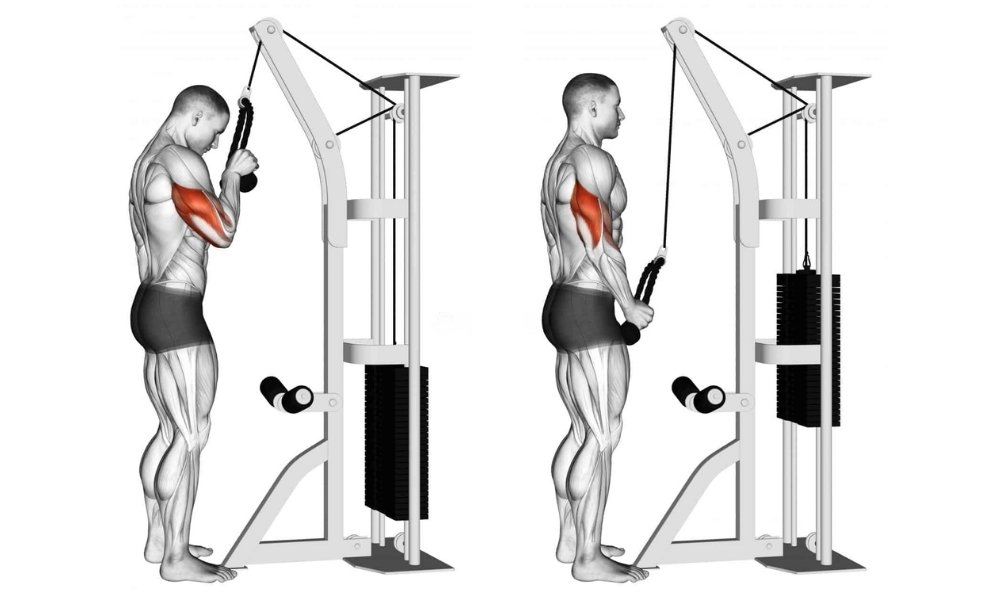
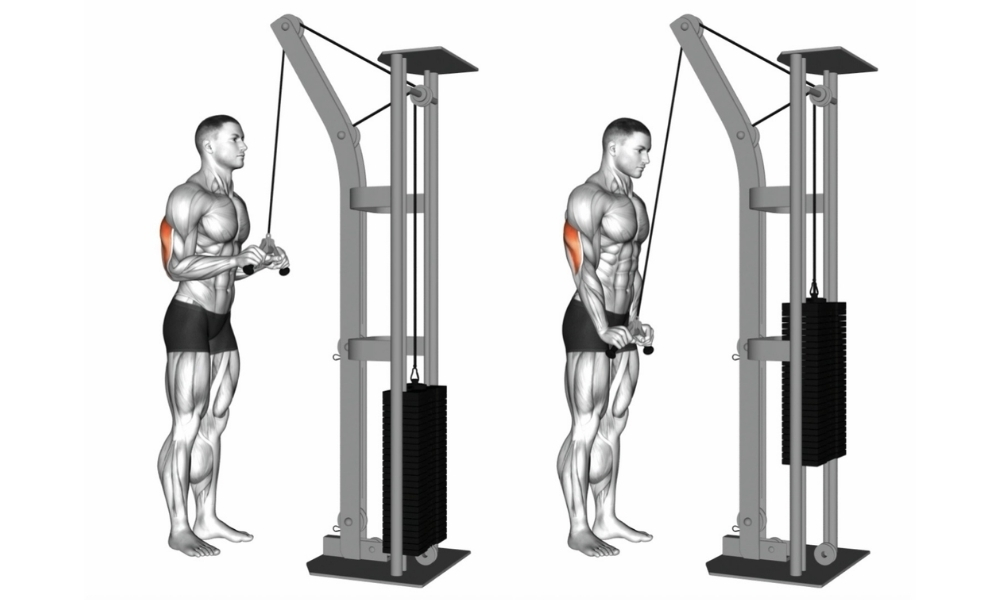
new exercises

diff --git a/src/App.jsx b/src/App.jsx
@@ -48,6 +48,7 @@ const EQ = {
   HIP_ADDUCTION_M:'hip adduction machine', ASSISTED_PULLUP_M:'assisted pull-up machine',
   PREACHER_M:'preacher curl machine', PREACHER_BENCH:'preacher bench',
   TRI_PUSHDOWN_M:'triceps pushdown machine',
+  ANKLE_HARNESS:'ankle harness', DIP_STATION:'dip station',
 };
 
 // =====================================================
@@ -88,17 +89,22 @@ const EXERCISES = {
   HIP_ADDUCTION:['Hip Adduction (Machine)',[EQ.HIP_ADDUCTION_M]],
   // LEG_EXT
   LEG_EXT:['Leg Extension',[EQ.LEG_EXT_M]],
+  LEG_EXT_1L:['Single-Leg Leg Extension',[EQ.LEG_EXT_M],{sa:true}],
   REVERSE_NORDIC:['Band-Assisted Reverse Nordic Curl',[EQ.BANDS],{lastResort:true}],
   SISSY_SQUAT:['Sissy Squat',[]],
   // LEG_CURL
   LEG_CURL_SEATED:['Seated Leg Curl',[EQ.LEG_CURL_SEATED_M]],
   LEG_CURL_LYING:['Lying Leg Curl',[EQ.LEG_CURL_LYING_M]],
   LEG_CURL_KNEELING:['Kneeling Leg Curl (Machine)',[EQ.LEG_CURL_KNEELING_M]],
+  LEG_CURL_SEATED_1L:['Single-Leg Seated Leg Curl',[EQ.LEG_CURL_SEATED_M],{sa:true}],
+  LEG_CURL_LYING_1L:['Single-Leg Lying Leg Curl',[EQ.LEG_CURL_LYING_M],{sa:true}],
+  CABLE_LYING_LEG_CURL:['Lying Leg Curl (Cable)',[EQ.CABLE,EQ.ANKLE_HARNESS]],
   NORDIC_BAND:['Band-Assisted Nordic Curl',[EQ.BANDS],{lastResort:true}],
   // CALF
   CALF_STRAIGHT_M:['Seated Straight-Leg Calf Raise (Machine)',[EQ.CALF_SEATED_STRAIGHT_M]],
   CALF_STANDING_MACH:['Standing Calf Raise (Machine)',[EQ.CALF_STANDING_M]],
   CALF_STANDING_CABLE:['Standing Calf Raise (Cable)',[EQ.CABLE,EQ.STEPPER]],
+  CALF_LEG_PRESS:['Calf Raise (Leg Press)',[EQ.LEG_PRESS_M]],
   CALF_STRAIGHT_SM:['Straight Leg Calf Raise (Smith)',[EQ.SMITH,EQ.STEPPER]],
   CALF_STRAIGHT_DB:['Straight Leg Calf Raise (DB)',[EQ.DUMBBELLS,EQ.STEPPER],{db:true}],
   CALF_SEATED:['Seated Calf Raise',[EQ.CALF_SEATED_M]],
@@ -118,6 +124,8 @@ const EXERCISES = {
   CHEST_PRESS_NEUTRAL_MACH:['Chest Press (Machine, Neutral Grip)',[EQ.CHEST_PRESS_M]],
   BENCH_SMITH:['Flat Bench Press (Smith Machine)',[EQ.SMITH,EQ.FLAT_BENCH]],
   BENCH_DB_FLAT:['Flat Dumbbell Bench Press',[EQ.DUMBBELLS,EQ.FLAT_BENCH],{primary:true,db:true}],
+  DIP_WEIGHTED:['Weighted Dip',[EQ.DIP_STATION,EQ.WEIGHT_BELT],{primary:true}],
+  DIP_BW:['Bodyweight Dip',[EQ.DIP_STATION],{amrap:true}],
   // CHEST_ISO
   DB_FLY_PRESS:['DB Fly-Press',[EQ.DUMBBELLS,EQ.FLAT_BENCH],{db:true}],
   DB_FLY_PRESS_INC:['Incline DB Fly-Press',[EQ.DUMBBELLS,EQ.ADJ_BENCH],{db:true}],
@@ -224,11 +232,11 @@ const POOLS = {
   HINGE:['RDL_LEVER','RDL_TRAP','RDL_LANDMINE','RDL_SMITH','RDL_BB','BACK_EXT_WTD','RDL_CABLE','RDL_DB'],
   GLUTE:['HIP_THRUST_BB','HIP_THRUST_MACH','HIP_THRUST_SMITH','HIP_THRUST_BENCH','HIP_THRUST_DB_1L'],
   GLUTE_ISO:['KICKBACK_CABLE','KICKBACK_MED_CABLE','KICKBACK_MACH','HIP_ABDUCTION','HIP_ADDUCTION'],
-  LEG_EXT:['LEG_EXT','SISSY_SQUAT','REVERSE_NORDIC'],
-  LEG_CURL:['LEG_CURL_SEATED','LEG_CURL_LYING','LEG_CURL_KNEELING','NORDIC_BAND'],
-  CALF:['CALF_STRAIGHT_M','CALF_STANDING_MACH','CALF_STRAIGHT_SM','CALF_STANDING_CABLE','CALF_STRAIGHT_DB','CALF_SEATED','CALF_SL_BW'],
+  LEG_EXT:['LEG_EXT','LEG_EXT_1L','SISSY_SQUAT','REVERSE_NORDIC'],
+  LEG_CURL:['LEG_CURL_SEATED','LEG_CURL_LYING','LEG_CURL_KNEELING','LEG_CURL_SEATED_1L','LEG_CURL_LYING_1L','CABLE_LYING_LEG_CURL','NORDIC_BAND'],
+  CALF:['CALF_STRAIGHT_M','CALF_STANDING_MACH','CALF_STRAIGHT_SM','CALF_STANDING_CABLE','CALF_LEG_PRESS','CALF_STRAIGHT_DB','CALF_SEATED','CALF_SL_BW'],
   INCLINE_PRESS:['INC_BB_30','INC_BB_15','INC_DB_30','INC_DB_15','INC_PRESS_MACH','INC_PRESS_MACH_STACK','INC_PRESS_SMITH'],
-  FLAT_PRESS:['BENCH_BB','CHEST_PRESS_MACH','CHEST_PRESS_FLAT_MACH','CHEST_PRESS_NEUTRAL_MACH','BENCH_SMITH','BENCH_DB_FLAT'],
+  FLAT_PRESS:['BENCH_BB','CHEST_PRESS_MACH','CHEST_PRESS_FLAT_MACH','CHEST_PRESS_NEUTRAL_MACH','BENCH_SMITH','BENCH_DB_FLAT','DIP_WEIGHTED','DIP_BW'],
   CHEST_ISO:['DB_FLY_PRESS','DB_FLY_PRESS_INC','PEC_DECK','CHEST_FLY_MACH','CHEST_FLY_MACH_STACK','CHEST_FLY_CABLE','CHEST_FLY_CABLE_STAND'],
   VERT_PUSH:['SHLDR_PRESS_DB','VIKING_PRESS','OHP_BB','SHLDR_PRESS_MACH','SHLDR_PRESS_MACH_STACK','SHLDR_PRESS_SMITH','SHLDR_PRESS_DB_1A','LANDMINE_PRESS_SEATED','LANDMINE_PRESS_STANDING','LANDMINE_PRESS_KNEELING_1A'],
   HORIZ_PULL:['ROW_TBAR_CS','ROW_CS_MACH','ROW_CS_MACH_STACK','ROW_SEAL','ROW_CABLE_SEATED','ROW_CABLE_CS_1A','ROW_CABLE_CS','ROW_PENDLAY','ROW_DB_CS','ROW_DB_1A','ROW_INVERTED'],
@@ -758,10 +766,36 @@ const TOKEN_ORDER = [
   'LEG_CURL_KNEELING','NECK_CURL_INCLINE','NECK_CURL_SEATED_CABLE','NECK_EXT_INCLINE','NECK_EXT_SEATED_CABLE',
   'PULLDOWN_MACH_STACK','ROW_CABLE_CS','ROW_CS_MACH_STACK','ROW_DB_CS','SHLDR_PRESS_MACH_STACK',
   'SHRUG_BB','SHRUG_KELSO','SISSY_SQUAT',
+  // Last session's 9 additions were left auto-appending instead of being frozen
+  // here (the same latent bug, one level down). This file is live, so codes may
+  // already encode them at these positions. Frozen here in their exact live
+  // auto-append order so those codes keep decoding correctly. Never reorder.
+  'CURL_CABLE_STANDING','CURL_CONCENTRATION_DB','CURL_PREACHER_EZ','CURL_PREACHER_MACH','CURL_ZOTTMAN_PREACHER_1A',
+  'LANDMINE_PRESS_KNEELING_1A','LANDMINE_PRESS_SEATED','LANDMINE_PRESS_STANDING','TRI_PUSHDOWN_MACH',
+  // This session's additions. Appended here at the same time they were added to
+  // EXERCISES, per the standing rule: every new exercise is frozen on arrival.
+  'LEG_EXT_1L','LEG_CURL_SEATED_1L','LEG_CURL_LYING_1L','CABLE_LYING_LEG_CURL','CALF_LEG_PRESS',
+  'DIP_WEIGHTED','DIP_BW',
 ];
-// Anything in the library but not yet in TOKEN_ORDER is appended automatically,
-// which keeps existing tokens stable while new exercises still encode.
-const ID_LIST = [...TOKEN_ORDER, ...Object.keys(EXERCISES).filter(id => !TOKEN_ORDER.includes(id)).sort()];
+// TOKEN LIST INTEGRITY — fail loud, never guess.
+// An OP1 code stores each exercise as its INDEX in this list, so the list has to
+// be append-only and hold every exercise exactly once. This used to auto-append
+// anything missing from TOKEN_ORDER in sorted order; adding one new exercise
+// could reshuffle that tail and silently reassign tokens in codes already
+// issued. We no longer paper over it: a missing or duplicated exercise throws
+// the moment the app loads, so it surfaces in testing instead of corrupting
+// live codes. The fix on seeing this error is to append the listed ids to the
+// END of TOKEN_ORDER — never to reorder what is already there.
+const _unfrozen = Object.keys(EXERCISES).filter(id => !TOKEN_ORDER.includes(id));
+const _dupes = [...new Set(TOKEN_ORDER.filter((id, i) => TOKEN_ORDER.indexOf(id) !== i))];
+if (_unfrozen.length || _dupes.length) {
+  const parts = [];
+  if (_unfrozen.length) parts.push(`${_unfrozen.length} exercise(s) missing from TOKEN_ORDER: ${_unfrozen.join(', ')} — append to the END, never reorder.`);
+  if (_dupes.length) parts.push(`duplicate TOKEN_ORDER entries: ${_dupes.join(', ')}.`);
+  throw new Error('OP1 token list is invalid. ' + parts.join(' '));
+}
+// Every exercise is frozen, so the token order IS the list — no fallback.
+const ID_LIST = [...TOKEN_ORDER];
 const ID_TO_TOKEN = {}; const TOKEN_TO_ID = {};
 ID_LIST.forEach((id,i)=>{ ID_TO_TOKEN[id]=i.toString(36); TOKEN_TO_ID[i.toString(36)]=id; });
 
@@ -1015,7 +1049,7 @@ const fmtH = (cm, units) => {
 const EQUIPMENT_GROUPS = [
   { label:'Free weights', items:[EQ.BARBELL,EQ.DUMBBELLS,EQ.EZ_BAR,EQ.TRAP_BAR,EQ.PLATE] },
   { label:'Racks & benches', items:[EQ.RACK,EQ.FLAT_BENCH,EQ.ADJ_BENCH,EQ.INCLINE_STATION,EQ.SMITH,EQ.LANDMINE,EQ.LEVER_ARMS,EQ.PREACHER_BENCH] },
-  { label:'Cables & bars', items:[EQ.CABLE,EQ.LAT_PULLDOWN,EQ.PULLUP_BAR,EQ.NEUTRAL_BARS,EQ.WEIGHT_BELT,EQ.BANDS] },
+  { label:'Cables & bars', items:[EQ.CABLE,EQ.LAT_PULLDOWN,EQ.PULLUP_BAR,EQ.NEUTRAL_BARS,EQ.DIP_STATION,EQ.WEIGHT_BELT,EQ.ANKLE_HARNESS,EQ.BANDS] },
   { label:'Leg machines', items:[EQ.HACK,EQ.PENDULUM,EQ.LEG_PRESS_M,EQ.LEG_EXT_M,EQ.LEG_CURL_SEATED_M,EQ.LEG_CURL_LYING_M,EQ.LEG_CURL_KNEELING_M,EQ.CALF_STANDING_M,EQ.CALF_SEATED_M,EQ.CALF_SEATED_STRAIGHT_M,EQ.HIP_THRUST_M,EQ.HIP_THRUST_STATION,EQ.KICKBACK_M,EQ.HIP_ABDUCTION_M,EQ.HIP_ADDUCTION_M] },
   { label:'Upper body machines', items:[EQ.CHEST_PRESS_M,EQ.INCLINE_PRESS_M,EQ.PEC_DECK,EQ.CHEST_FLY_M,EQ.SHOULDER_PRESS_M,EQ.LAT_RAISE_M,EQ.REAR_DELT_M,EQ.ROW_CS_M,EQ.TBAR_M,EQ.PULLDOWN_M,EQ.SHRUG_M,EQ.VIKING,EQ.SEAL_BENCH,EQ.PREACHER_M,EQ.TRI_PUSHDOWN_M] },
   { label:'Other', items:[EQ.STEPPER,EQ.ROMAN_CHAIR,EQ.CRUNCH_M,EQ.CAPTAINS_CHAIR,EQ.HEAD_HARNESS] },
@@ -1038,6 +1072,7 @@ const PRESET_MID = new Set([
   EQ.LEG_CURL_SEATED_M,EQ.CALF_STANDING_M,EQ.CALF_SEATED_M,
   EQ.CHEST_PRESS_M,EQ.PEC_DECK,EQ.SHOULDER_PRESS_M,EQ.LAT_RAISE_M,EQ.REAR_DELT_M,
   EQ.ROW_CS_M,EQ.CRUNCH_M,EQ.ROMAN_CHAIR,EQ.CAPTAINS_CHAIR,EQ.STEPPER,EQ.PLATE,EQ.BANDS,
+  EQ.DIP_STATION,EQ.ANKLE_HARNESS,
 ]);
 // No dedicated flat bench station — an adjustable bench set flat covers
 // everything, and SATISFIED_BY makes the swap for us.
